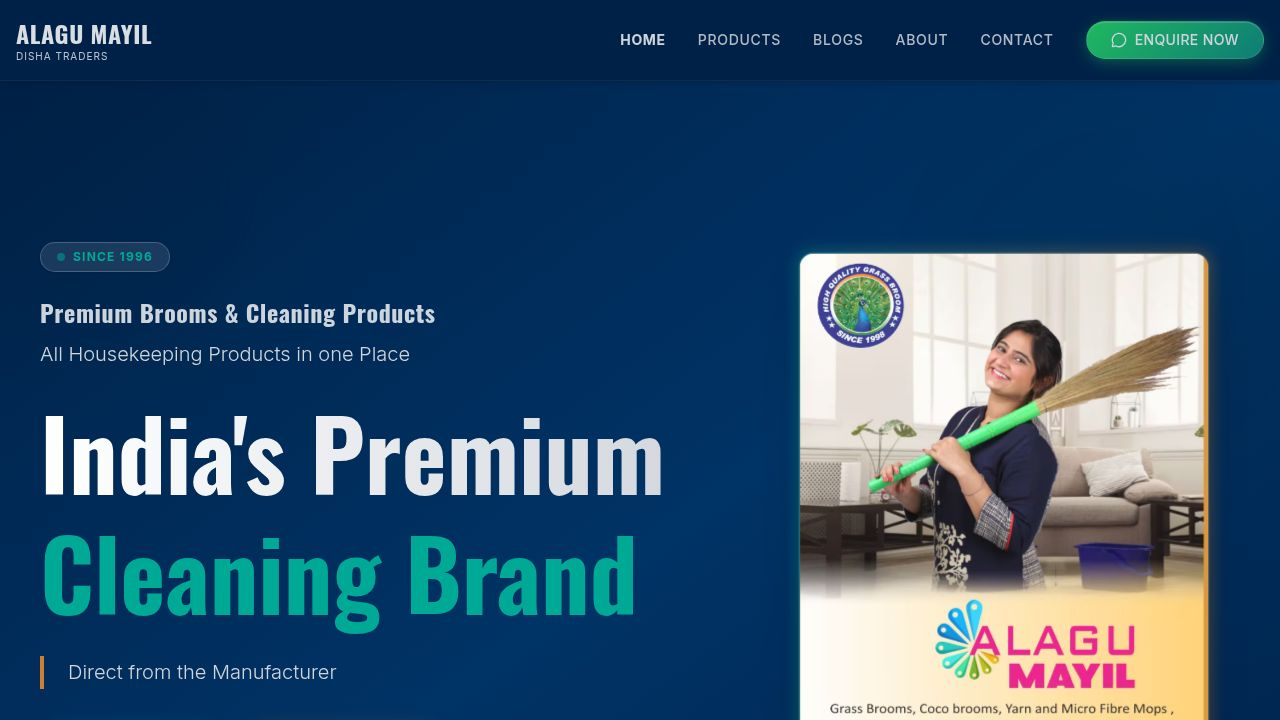
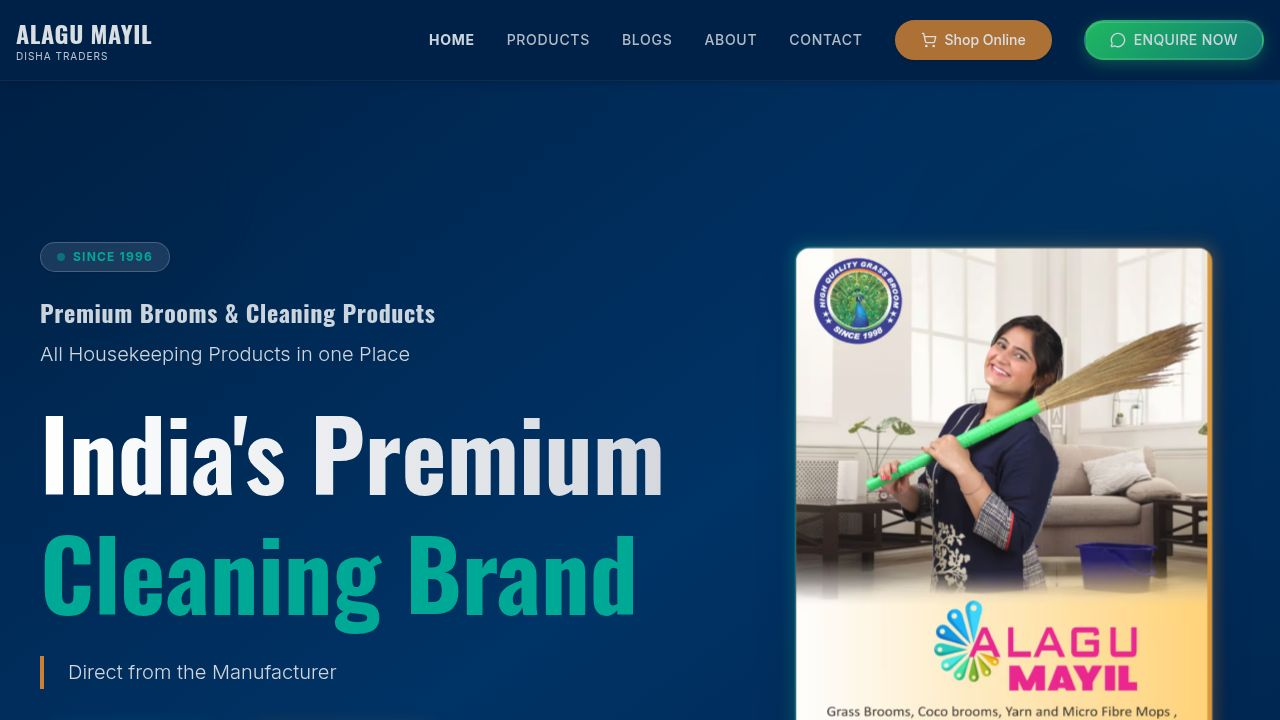
Update header button style to match 'Enquire Now' appearance
Modify the 'Shop Online' button in `client/src/components/layout.tsx` to use a solid orange background and matching border, ensuring visual consistency with the 'Enquire Now' button.

Replit-Commit-Author: Agent
Replit-Commit-Session-Id: e2d27337-ede5-43ca-a321-8fd95dc6929d
Replit-Commit-Checkpoint-Type: full_checkpoint
Replit-Commit-Event-Id: 988d91aa-826d-4de0-882f-c996c2712a2a
Replit-Commit-Screenshot-Url: https://storage.googleapis.com/screenshot-production-us-central1/f8183708-1485-4f89-9ee4-c5e14e6daa67/e2d27337-ede5-43ca-a321-8fd95dc6929d/L6az3EY
Replit-Helium-Checkpoint-Created: true

Changed region(s): [[0.5938, 0.3361, 0.9688, 1.0], [0.4062, 0.0, 0.9688, 0.0917], [0.3438, 0.0306, 0.375, 0.0611]]

diff --git a/client/src/components/layout.tsx b/client/src/components/layout.tsx
@@ -50,8 +50,7 @@ export function Layout({ children }: { children: React.ReactNode }) {
             {config.social.shopOnlineLink && (
               <Button 
                 asChild 
-                variant="outline"
-                className="border-2 border-[#CD7F32] text-[#CD7F32] bg-transparent hover:bg-[#CD7F32] hover:text-white rounded-full px-6 gap-2 transition-all hover:scale-105"
+                className="bg-[#CD7F32] hover:bg-[#B06A26] text-white rounded-full px-6 gap-2 border-2 border-[#CD7F32] transition-all hover:scale-105 shadow-md"
               >
                 <a href={config.social.shopOnlineLink} target="_blank" rel="noopener noreferrer">
                   <svg xmlns="http://www.w3.org/2000/svg" width="16" height="16" viewBox="0 0 24 24" fill="none" stroke="currentColor" strokeWidth="2" strokeLinecap="round" strokeLinejoin="round"><circle cx="8" cy="21" r="1"/><circle cx="19" cy="21" r="1"/><path d="M2.05 2.05h2l2.66 12.42a2 2 0 0 0 2 1.58h9.78a2 2 0 0 0 1.95-1.57l1.65-7.43H5.12"/></svg>
